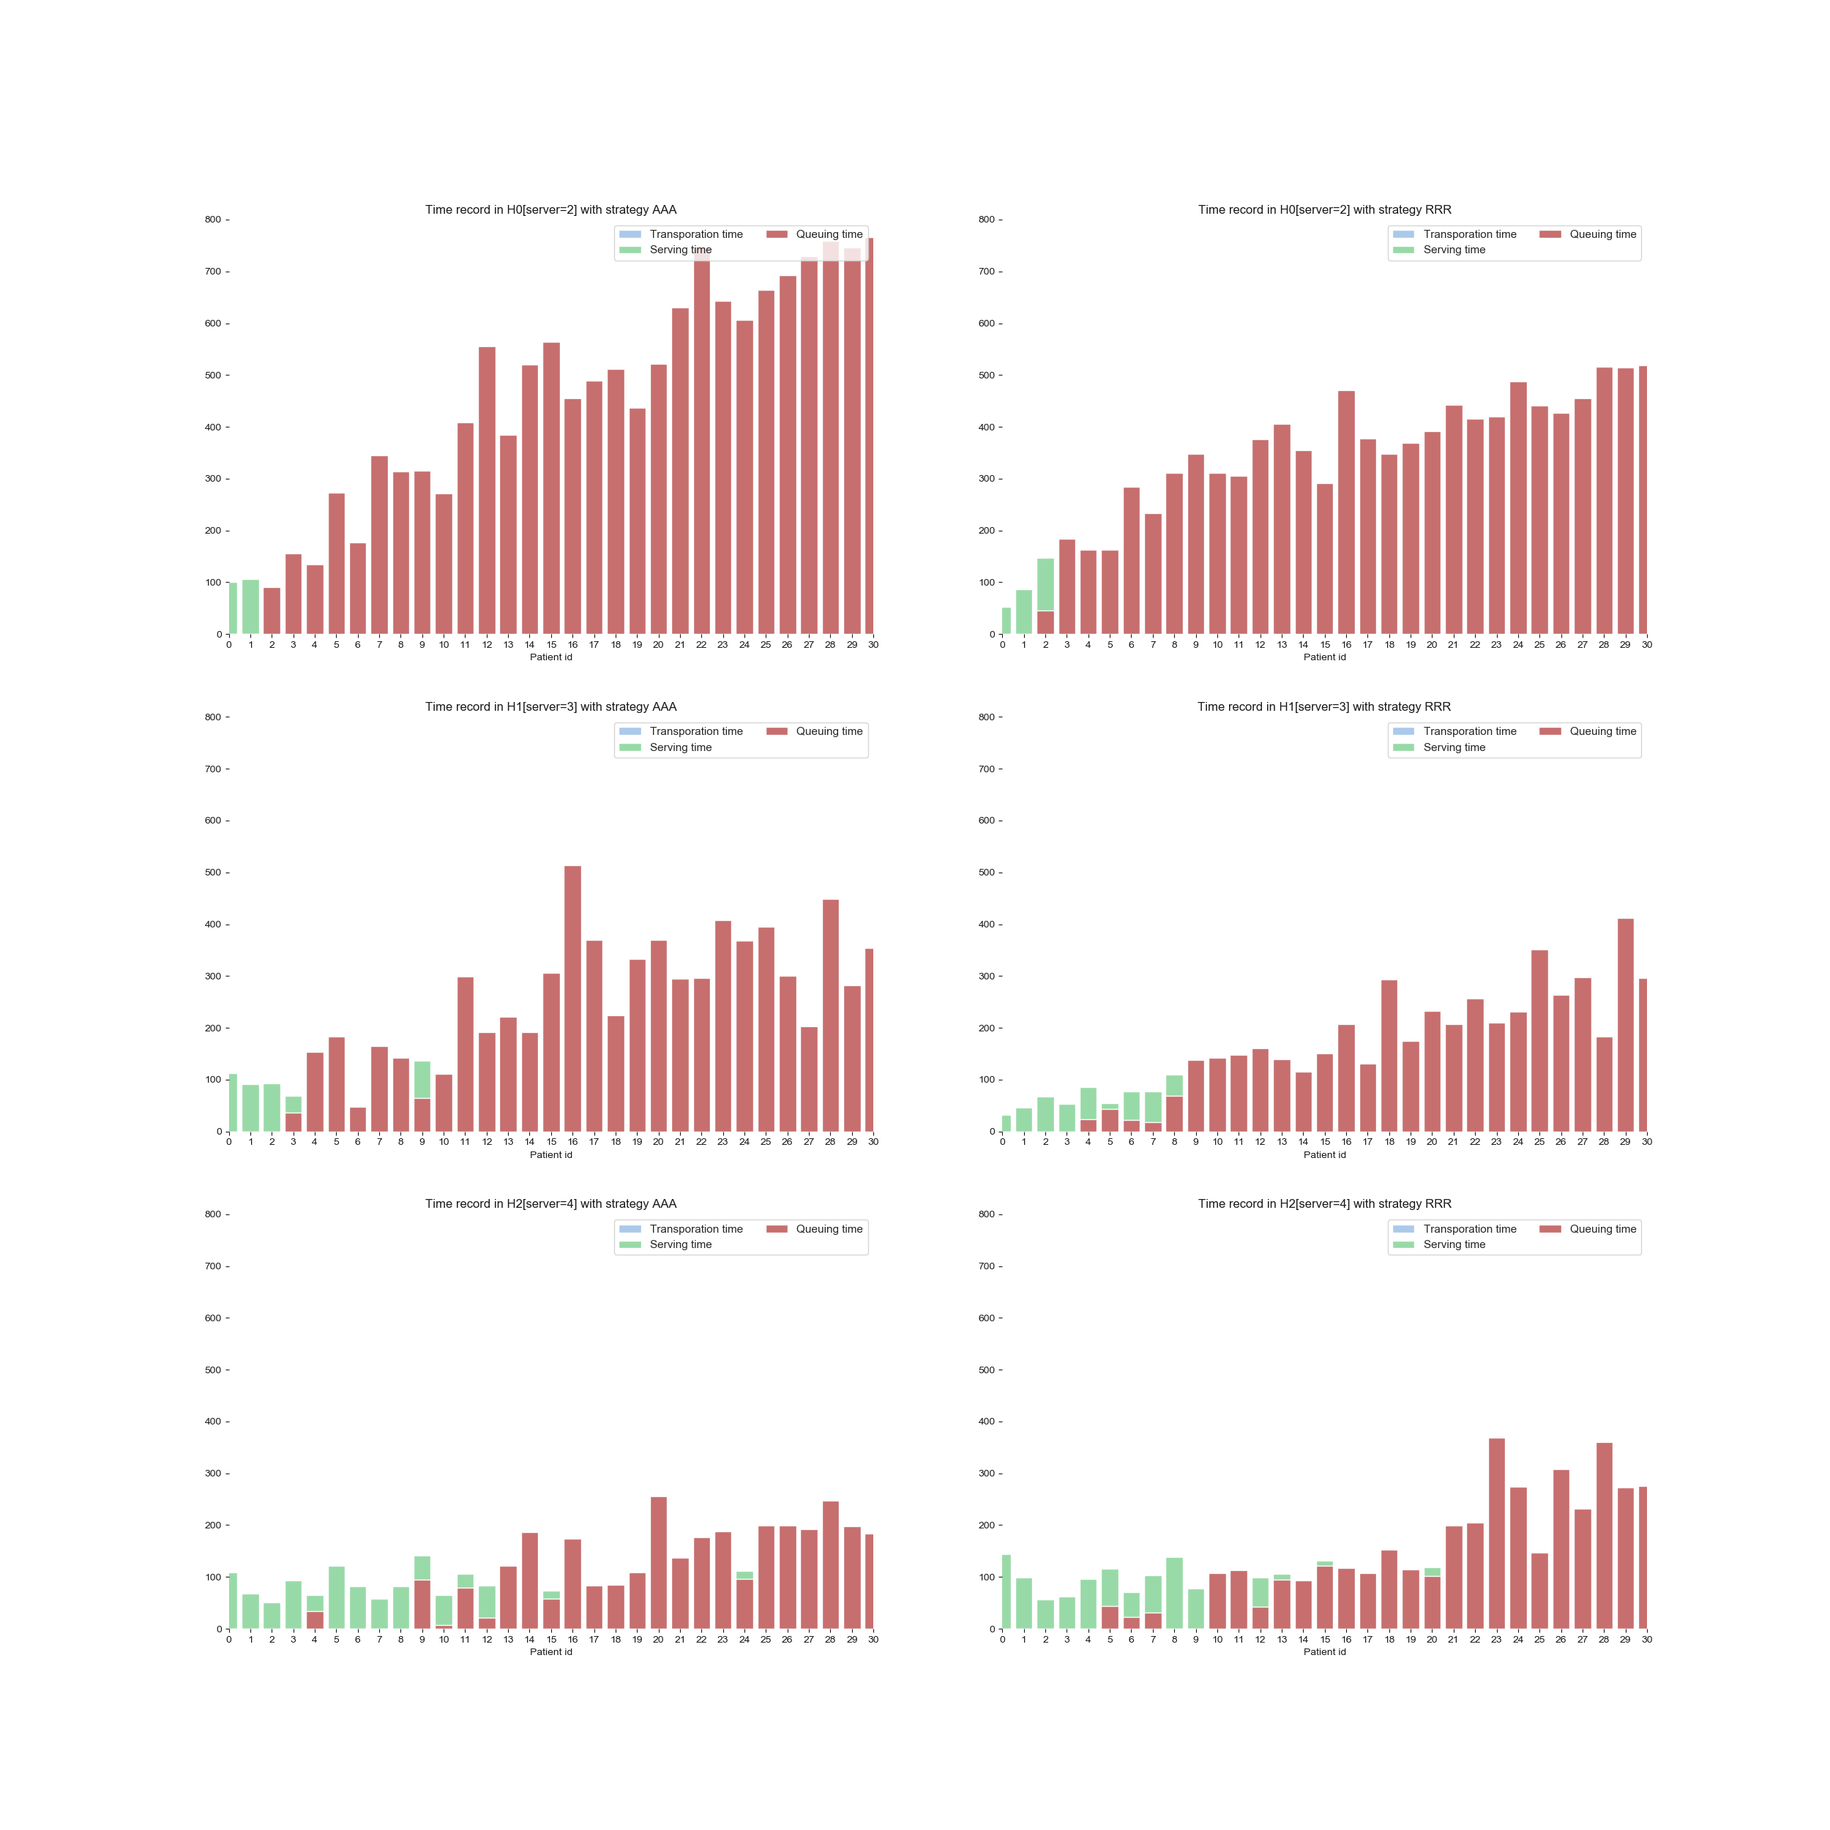
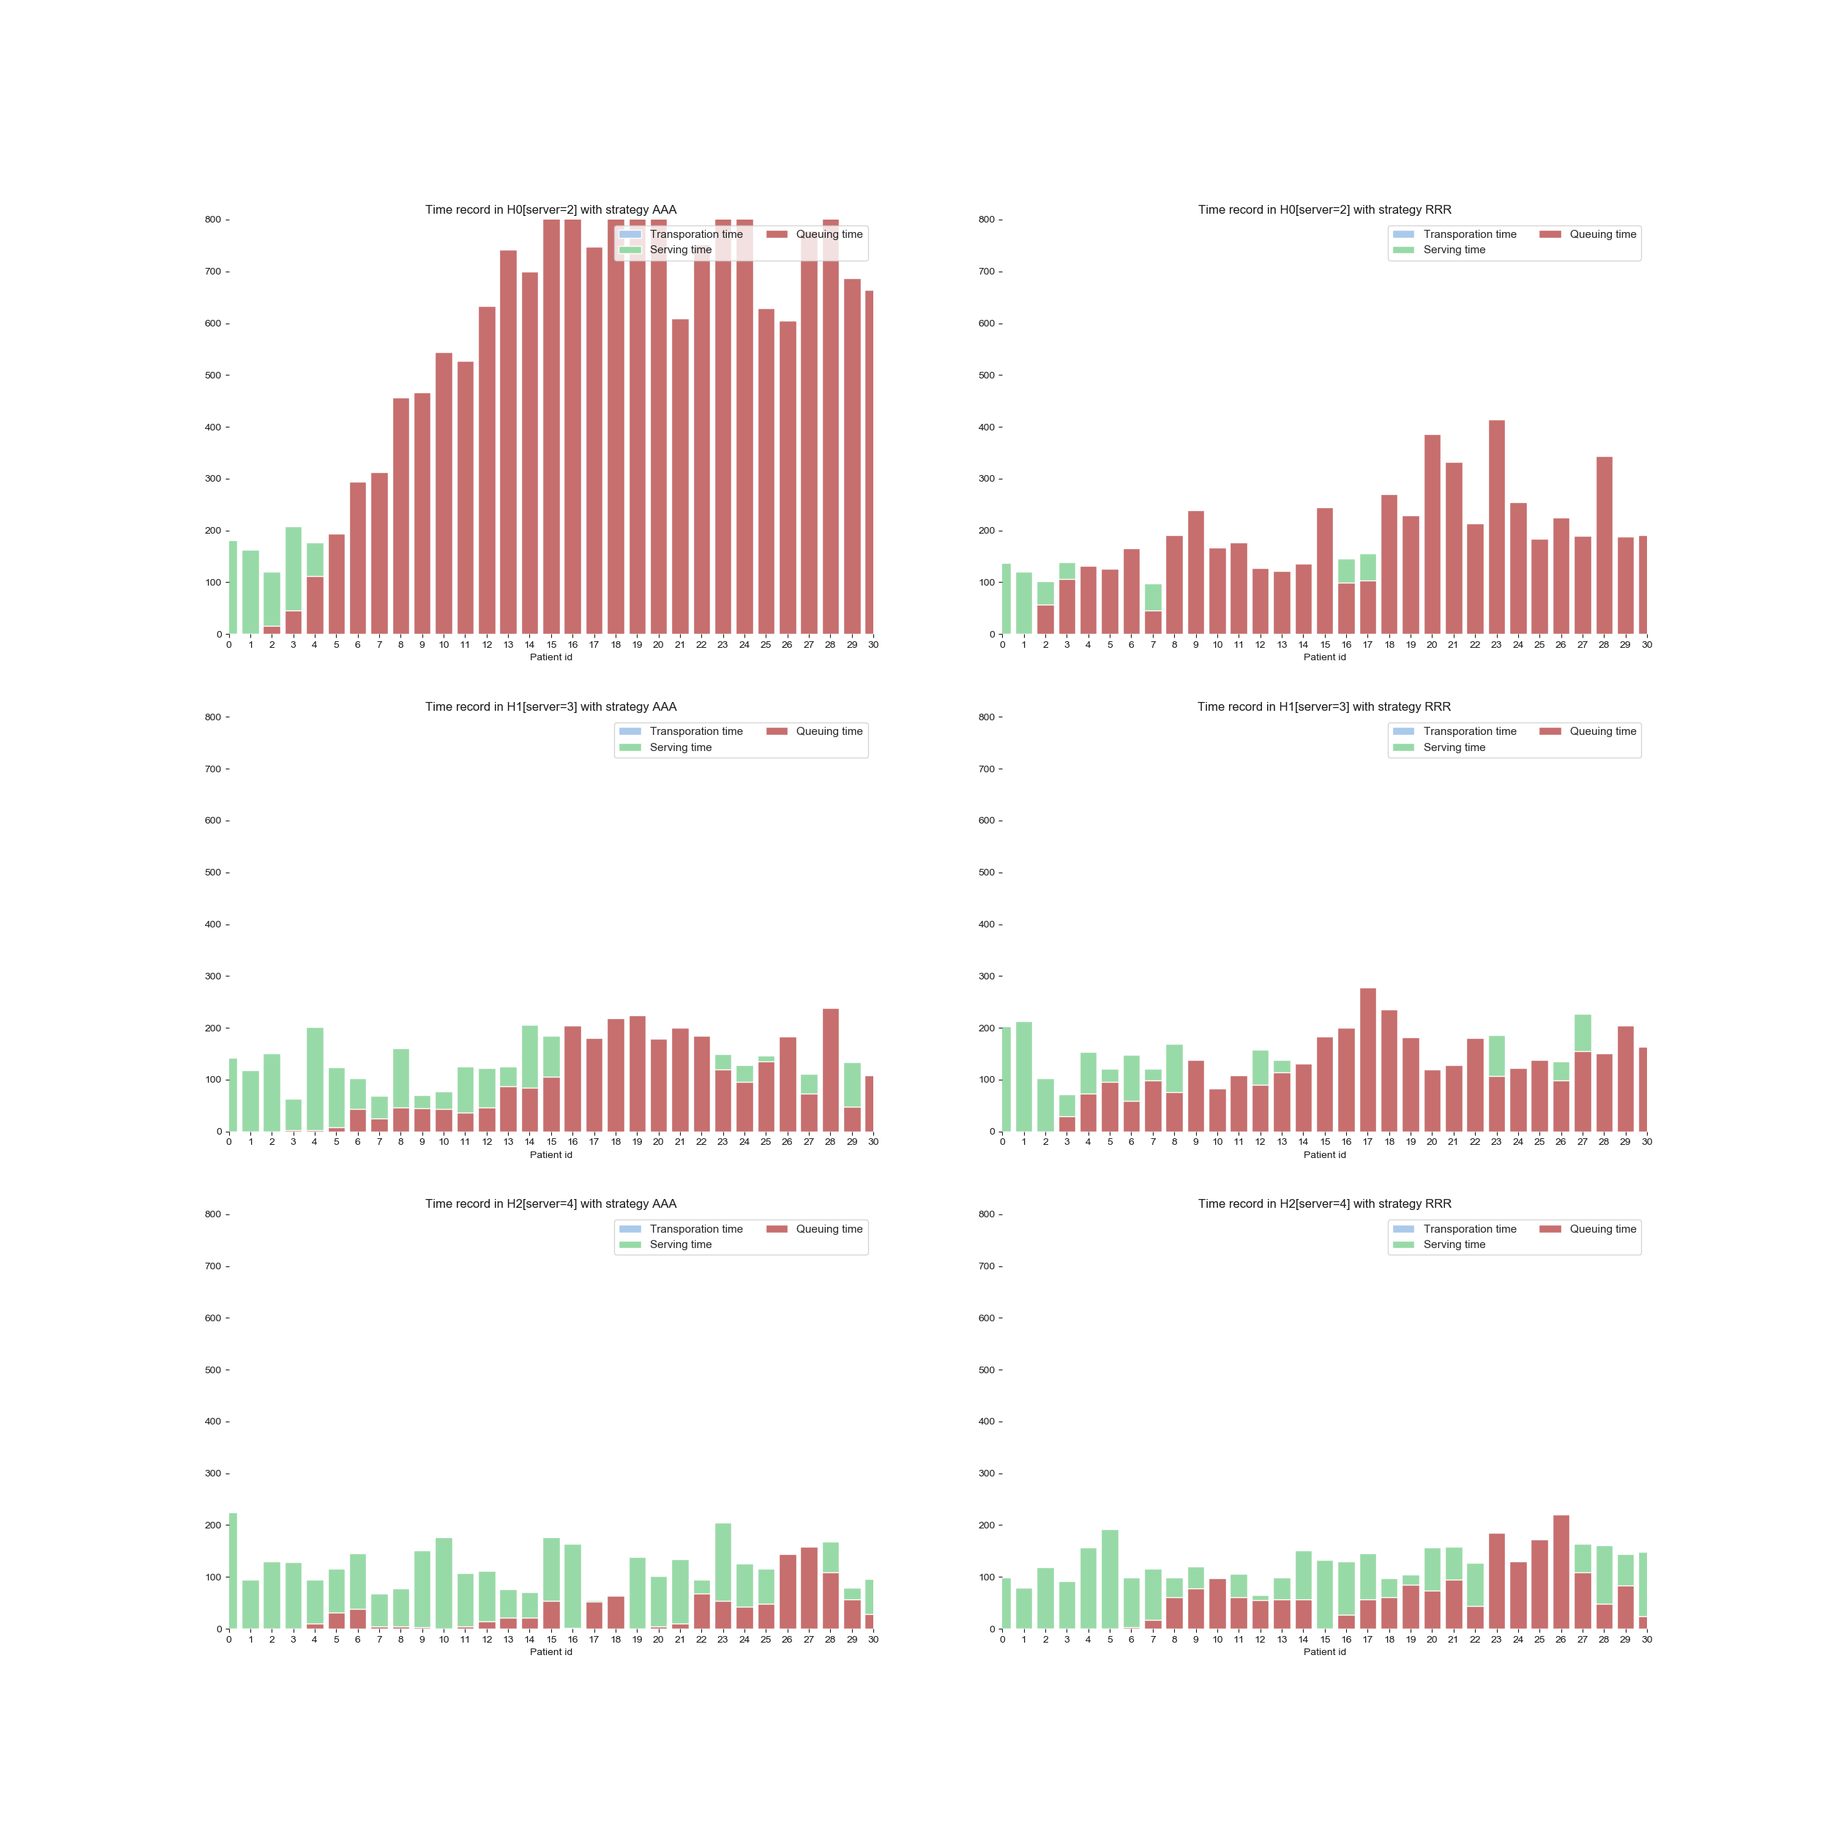
fix multi server simulation

diff --git a/src/simulation/core/Hospitals2DModel.py b/src/simulation/core/Hospitals2DModel.py
@@ -1,12 +1,13 @@
 from simulation.core.Hospital2D import *
 from simulation.core.PatientStream import *
+import pandas as pd
 
 
 class Hospitals2DModel:
     def __init__(self, lambda_inflow, servers_in_hospital, strategies, mu=1, timesteps=2000,
                  hosp_locations=[Point2D(-25, 25), Point2D(0, -43), Point2D(25, 25)],
                  queue_buffer=10, r=50, velocity=2, stream=None):
-        self.hospitals = [Hospital2D(strategies[i], hosp_locations[i], servers_in_hospital[i],
+        self.hospitals = [Hospital2D(strategies[i], hosp_locations[i], servers_in_hospital[i], i,
                                      queue_buffer, velocity) for i in range(len(hosp_locations))]
         self.stream = Stream(lambda_inflow, mu, timesteps, r) if stream is None else stream
         self.appeared = self.stream.total_patients
@@ -33,6 +34,7 @@ class Hospitals2DModel:
         for hosp, i in zip(self.sorted_by_transp_time(patient), range(len(self.hospitals))):
             patient.set_transp_time(hosp.calc_transp_time(patient))
             if hosp.can_accept_patient(patient.arrival_time):
+                patient.set_hosp_num(hosp.hosp_num)
                 queue = hosp.add_patient(patient)
                 # print(patient)
                 self.events.add(Event('served', patient, patient.serve_finish_time, queue, hosp))
@@ -40,8 +42,9 @@ class Hospitals2DModel:
                 return
         best_hosp = self.min_by_expected_travel_and_queue_time(patient)
         patient.fetch_strategy = 'Best expected time'
+        patient.set_hosp_num(best_hosp.hosp_num)
         queue = best_hosp.add_patient(patient)
-        self.events.add(Event('served', patient, patient.serve_finish_time, queue, hosp))
+        self.events.add(Event('served', patient, patient.serve_finish_time, queue, best_hosp))
 
     def model_queue(self):
         while self.events:
@@ -56,12 +59,36 @@ class Hospitals2DModel:
                 event.hospital.served += 1
         return self.appeared, self.served
 
-    def show_patients(self, fromIndex=0, untilIndex=None):
-        patients = self.patients[fromIndex:untilIndex]
-        for patient in patients:
-            print(patient)
+    def show_patients(self, from_index=0, until_index=None):
+        records = {
+            # 'ID': [],
+            'H': [],
+            'RT': [],
+            'AT': [],
+            'SST': [],
+            'SFT': [],
+            'FA': [],
+            'QT': [],
+            # 'ST': []
+        }
+        patients = self.patients[from_index:until_index]
+        for patient, id in zip(patients, range(len(patients))):
+            # records['ID'].append(id)
+            records['H'].append(patient.hospital_num)
+            records['RT'].append(patient.request_time)
+            records['AT'].append(patient.arrival_time)
+            records['SST'].append(patient.serve_start_time)
+            records['SFT'].append(patient.serve_finish_time)
+            records['QT'].append(patient.queue_time)
+            # records['ST'].append(patient.serve_time)
+            records['FA'].append(patient.fetch_strategy)
+        records = pd.DataFrame(records)
+        pd.set_option('display.max_columns', 500)
+        pd.set_option('display.max_rows', 500)
+
+        print(records)
 
 
 if __name__ == '__main__':
-    model = Hospitals2DModel(25, [2, 1, 1], 'RAR', mu=50)
-    model.show_patients(-5)
+    model = Hospitals2DModel(5, [1, 1, 1], 'RRR', mu=100, queue_buffer=2)
+    model.show_patients(0, 100)

diff --git a/src/simulation/core/PatientQueue.py b/src/simulation/core/PatientQueue.py
@@ -1,25 +1,21 @@
 from sortedcontainers import SortedList
 
+
 class Queue:
-    def __init__(self):
+    def __init__(self, servers):
+        self.servers = servers
         self.queue = SortedList([], key=lambda patient: patient.arrival_time)
         self.served = 0
         self.load = [0]
         self.arrival_times = [0]
 
     def length(self, request_time):
-        return sum([1 for patient in self.queue if patient.arrival_time <= request_time])
-
-    def update_queue(self):
-        if self.current_patient is not None and self.current_patient.serve_finish_time <= self.time:
-            self.total_patients_served += 1
-            self.current_patient = None
-        if len(self.queue) > 0 and self.queue[0].serve_start_time <= self.time:
-            self.current_patient = self.queue.pop(0)
+        return sum([1 for patient in self.queue if patient.arrival_time <= request_time < patient.serve_start_time])
 
     def add_patient(self, patient):
         self.queue.add(patient)
         self.load.append(self.load[-1] + 1)
+        patient.set_queue_state(self.load[-1])
         self.arrival_times.append(patient.arrival_time)
 
     def pop(self, patient):
@@ -29,9 +25,12 @@ class Queue:
         self.arrival_times.append(patient.serve_finish_time)
 
     def calc_expected_queue_time(self, requested_time):
-        queue = [patient for patient in self.queue
-                 if patient.arrival_time <= requested_time and patient.serve_finish_time > requested_time]
-        if not queue:
+        patients_in_period = [patient for patient in self.queue
+                              if patient.arrival_time <= requested_time < patient.serve_finish_time]
+        queue = [patient for patient in patients_in_period if patient.serve_start_time > requested_time]
+        serving = [patient for patient in patients_in_period if patient.serve_start_time <= requested_time]
+        cur_serve_finish_time = requested_time if not serving else \
+            min(serving, key=lambda patient: patient.serve_finish_time).serve_finish_time
+        if len(serving) < self.servers:
             return 0
-        else:
-            return queue[0].serve_finish_time - requested_time + sum(map(lambda p: p.serve_time, queue))
+        return cur_serve_finish_time - requested_time + sum(map(lambda p: p.serve_time, queue))

diff --git a/src/simulation/plot/QueuePlot.py b/src/simulation/plot/QueuePlot.py
@@ -1,7 +1,8 @@
 from src.common import *
-from simulation.core.Hospitals2DModel import  Hospitals2DModel
+from simulation.core.Hospitals2DModel import Hospitals2DModel
 
-def queue_plot(queue, hosp_num, queue_num, strategy, ax, ylim=None, queue_buffer=5):
+
+def queue_plot(queue, hosp_num, strategy, ax, ylim=None, queue_buffer=5):
     data = {
         'Time': queue.arrival_times + [0, 2000],
         'Load': queue.load + ([queue_buffer] * 2),
@@ -9,7 +10,7 @@ def queue_plot(queue, hosp_num, queue_num, strategy, ax, ylim=None, queue_buffer
     }
     data = pd.DataFrame(data)
     sns.lineplot(x='Time', y='Load', hue='Type', data=data, ax=ax)
-    ax.set_title('Queue load in Hospital {}, Server {} Strategy {}'.format(hosp_num + 1, queue_num + 1, strategy))
+    ax.set_title('Queue load in Hospital {}, Strategy {}'.format(hosp_num + 1, strategy))
     ax.set(ylim=ylim)
 
 
@@ -20,14 +21,14 @@ if __name__ == '__main__':
     ylim = (0, 15)
     aaa_model = Hospitals2DModel(l, [2, 3, 4], 'AAA', mu=mu, queue_buffer=queue_buffer)
     rrr_model = Hospitals2DModel(l, [2, 3, 4], 'RRR', mu=mu, queue_buffer=queue_buffer)
-    _, axs = plt.subplots(ncols=2, nrows=9, figsize=(20, 60))
     ax_index = 0
     for i in range(len(aaa_model.hospitals)):
-        for j in range(len(aaa_model.hospitals[i].servers_queue)):
-            aaa_queue = aaa_model.hospitals[i].servers_queue[j]
-            queue_plot(aaa_queue, i, j, 'AAA', axs[ax_index][0], ylim, queue_buffer=queue_buffer)
-            rrr_queue = rrr_model.hospitals[i].servers_queue[j]
-            queue_plot(rrr_queue, i, j, 'RRR', axs[ax_index][1], ylim, queue_buffer=queue_buffer)
-            ax_index += 1
-    plt.savefig('../../images/Queue load')
-    plt.show()
+        plt.figure()
+        _, axs = plt.subplots(ncols=2, figsize=(10, 5))
+        aaa_queue = aaa_model.hospitals[i].queue
+        queue_plot(aaa_queue, i, 'AAA', axs[0], ylim, queue_buffer=queue_buffer)
+        rrr_queue = rrr_model.hospitals[i].queue
+        queue_plot(rrr_queue, i, 'RRR', axs[1], ylim, queue_buffer=queue_buffer)
+        ax_index += 1
+        plt.savefig('../../images/Queue load for Hospital {}'.format(i + 1))
+        plt.show()

diff --git a/src/simulation/core/Hospital2D.py b/src/simulation/core/Hospital2D.py
@@ -2,40 +2,34 @@ from simulation.core.PatientQueue import *
 
 
 class Hospital2D:
-    def __init__(self, strategy, location, servers_number, queue_buffer, velocity):
+    def __init__(self, strategy, location, servers_number, hosp_num, queue_buffer=5, velocity=20):
         self.strategy = strategy
         self.location = location
         self.servers_number = servers_number
         self.velocity = velocity
+        self.hosp_num = hosp_num
         self.queue_buffer = queue_buffer
         self.served = 0
         self.appeared = 0
-        self.servers_queue = [Queue() for _ in range(servers_number)]
+        self.queue = Queue(servers_number)
         self.patients = []
 
     def can_accept_patient(self, time):
         if self.strategy == 'A':
             return True
-        return self.find_shortest_queue(time).length(time) < self.queue_buffer
-
-    def find_shortest_queue(self, time):
-        return min(self.servers_queue, key=lambda queue: queue.length(time))
-
-    def calc_queue_time(self, patient):
-        return self.find_shortest_queue(patient.arrival_time).calc_expected_queue_time(patient.arrival_time)
+        return self.queue.length(time) < self.queue_buffer
 
     def expected_travel_and_queue_time(self, patient):
         patient.set_transp_time(self.calc_transp_time(patient))
-        queue_time = self.find_shortest_queue(patient.arrival_time).calc_expected_queue_time(patient.arrival_time)
+        queue_time = self.queue.calc_expected_queue_time(patient.arrival_time)
         return patient.transp_time + queue_time
 
     def calc_transp_time(self, patient):
         return self.location.dist(patient.request_location) / self.velocity
 
     def add_patient(self, patient):
-        patient.set_queue_time(self.calc_queue_time(patient))
+        patient.set_queue_time(self.queue.calc_expected_queue_time(patient.arrival_time))
         self.patients.append(patient)
-        queue = self.find_shortest_queue(patient.arrival_time)
-        queue.add_patient(patient)
+        self.queue.add_patient(patient)
         self.appeared += 1
-        return queue
+        return self.queue

diff --git a/src/simulation/core/Patient.py b/src/simulation/core/Patient.py
@@ -9,10 +9,12 @@ class Patient:
         self.serve_start_time = None
         self.serve_finish_time = None
         self.fetch_strategy = None
+        self.queue_state = None
+        self.hospital_num = None
 
     def __repr__(self):
-        return 'Patient reqT=%d arrT=%d ssT=%d sfT=%d' % (self.request_time, self.arrival_time,
-                                                          self.serve_start_time, self.serve_finish_time)
+        return 'Patient reqT=%d arrT=%d ssT=%d sfT=%d hosp=%d fetch=%s' % (self.request_time, self.arrival_time,
+                                                          self.serve_start_time, self.serve_finish_time, self.hospital_num, self.fetch_strategy)
 
     def set_transp_time(self, transp_time):
         self.transp_time = transp_time
@@ -22,3 +24,9 @@ class Patient:
         self.queue_time = queue_time
         self.serve_start_time = self.arrival_time + queue_time
         self.serve_finish_time = self.serve_start_time + self.serve_time
+
+    def set_queue_state(self, state):
+        self.queue_state = state
+
+    def set_hosp_num(self, hosp_num):
+        self.hospital_num = hosp_num

diff --git a/src/simulation/core/PatientStream.py b/src/simulation/core/PatientStream.py
@@ -1,4 +1,4 @@
-from numpy.random import poisson
+from numpy.random import poisson, exponential
 from simulation.core.Event import Event
 from simulation.core.Patient import Patient
 from simulation.core.Point2D import *
@@ -14,6 +14,7 @@ class Stream:
         self.events = []
         self.total_patients = 0
         self.generate()
+        self.interval_mean = None
 
     def create_appear_event(self, time, serve_time):
         loc = Point2D.random_point_in_circle(self.r)
@@ -22,7 +23,7 @@ class Stream:
     def generate(self):
         time = 0
         interval_distr = poisson(self.l, 2000)
-        serve_distr = poisson(self.mu, 2001)
+        serve_distr = exponential(self.mu, 2001)
         self.interval_mean = np.mean(interval_distr)
         self.events.append(self.create_appear_event(time, serve_distr[0]))
         for interval, serve_time in zip(interval_distr, serve_distr[1:]):

diff --git a/src/simulation/plot/PatientRecordPlot.py b/src/simulation/plot/PatientRecordPlot.py
@@ -35,8 +35,8 @@ def record_for_each_patient_global(ax, strategy, mu, l=25, ylim=None, queue_buff
 
 if __name__ == '__main__':
     l = 10
-    mu = 80
-    queue_buffer = 3
+    mu = 130
+    queue_buffer = 5
     ylim = (0, 500)
     _, axs = plt.subplots(ncols=2, figsize=(25, 5))
     record_for_each_patient_global(axs[0], 'AAA', mu, ylim=ylim, queue_buffer=queue_buffer, l=l)

diff --git a/src/simulation/plot/QueuePatientRecordPlot.py b/src/simulation/plot/QueuePatientRecordPlot.py
@@ -32,7 +32,7 @@ def record_for_each_patient(hosp_num, stats, ax, servers, strategy, ylim=None, x
 
 
 if __name__ == '__main__':
-    mu = 80
+    mu = 120
     queue_buffer = 5
     ylim = (0, 800)
     xlim = (0, 30)

diff --git a/src/README.md b/src/README.md
@@ -29,7 +29,9 @@ Select Hospital Algorithm
 ![Select Hospital Algorithm](images/Select%20Hospital%20Algorithm.png)
 
 Queue Load
-![Queue Load](images/Queue%20load.png)
+![Queue Load for Hospital 1](images/Queue%20load%20for%20Hospital%201.png)
+![Queue Load for Hospital 2](images/Queue%20load%20for%20Hospital%202.png)
+![Queue Load for Hospital 3](images/Queue%20load%20for%20Hospital%203.png)
 
 Nash Equilibrium for changing strategy (AAA)
 ![Nash Equilibrium for changing strategy (AAA)](images/Nash%20Equ%20from%20AAA.png)
